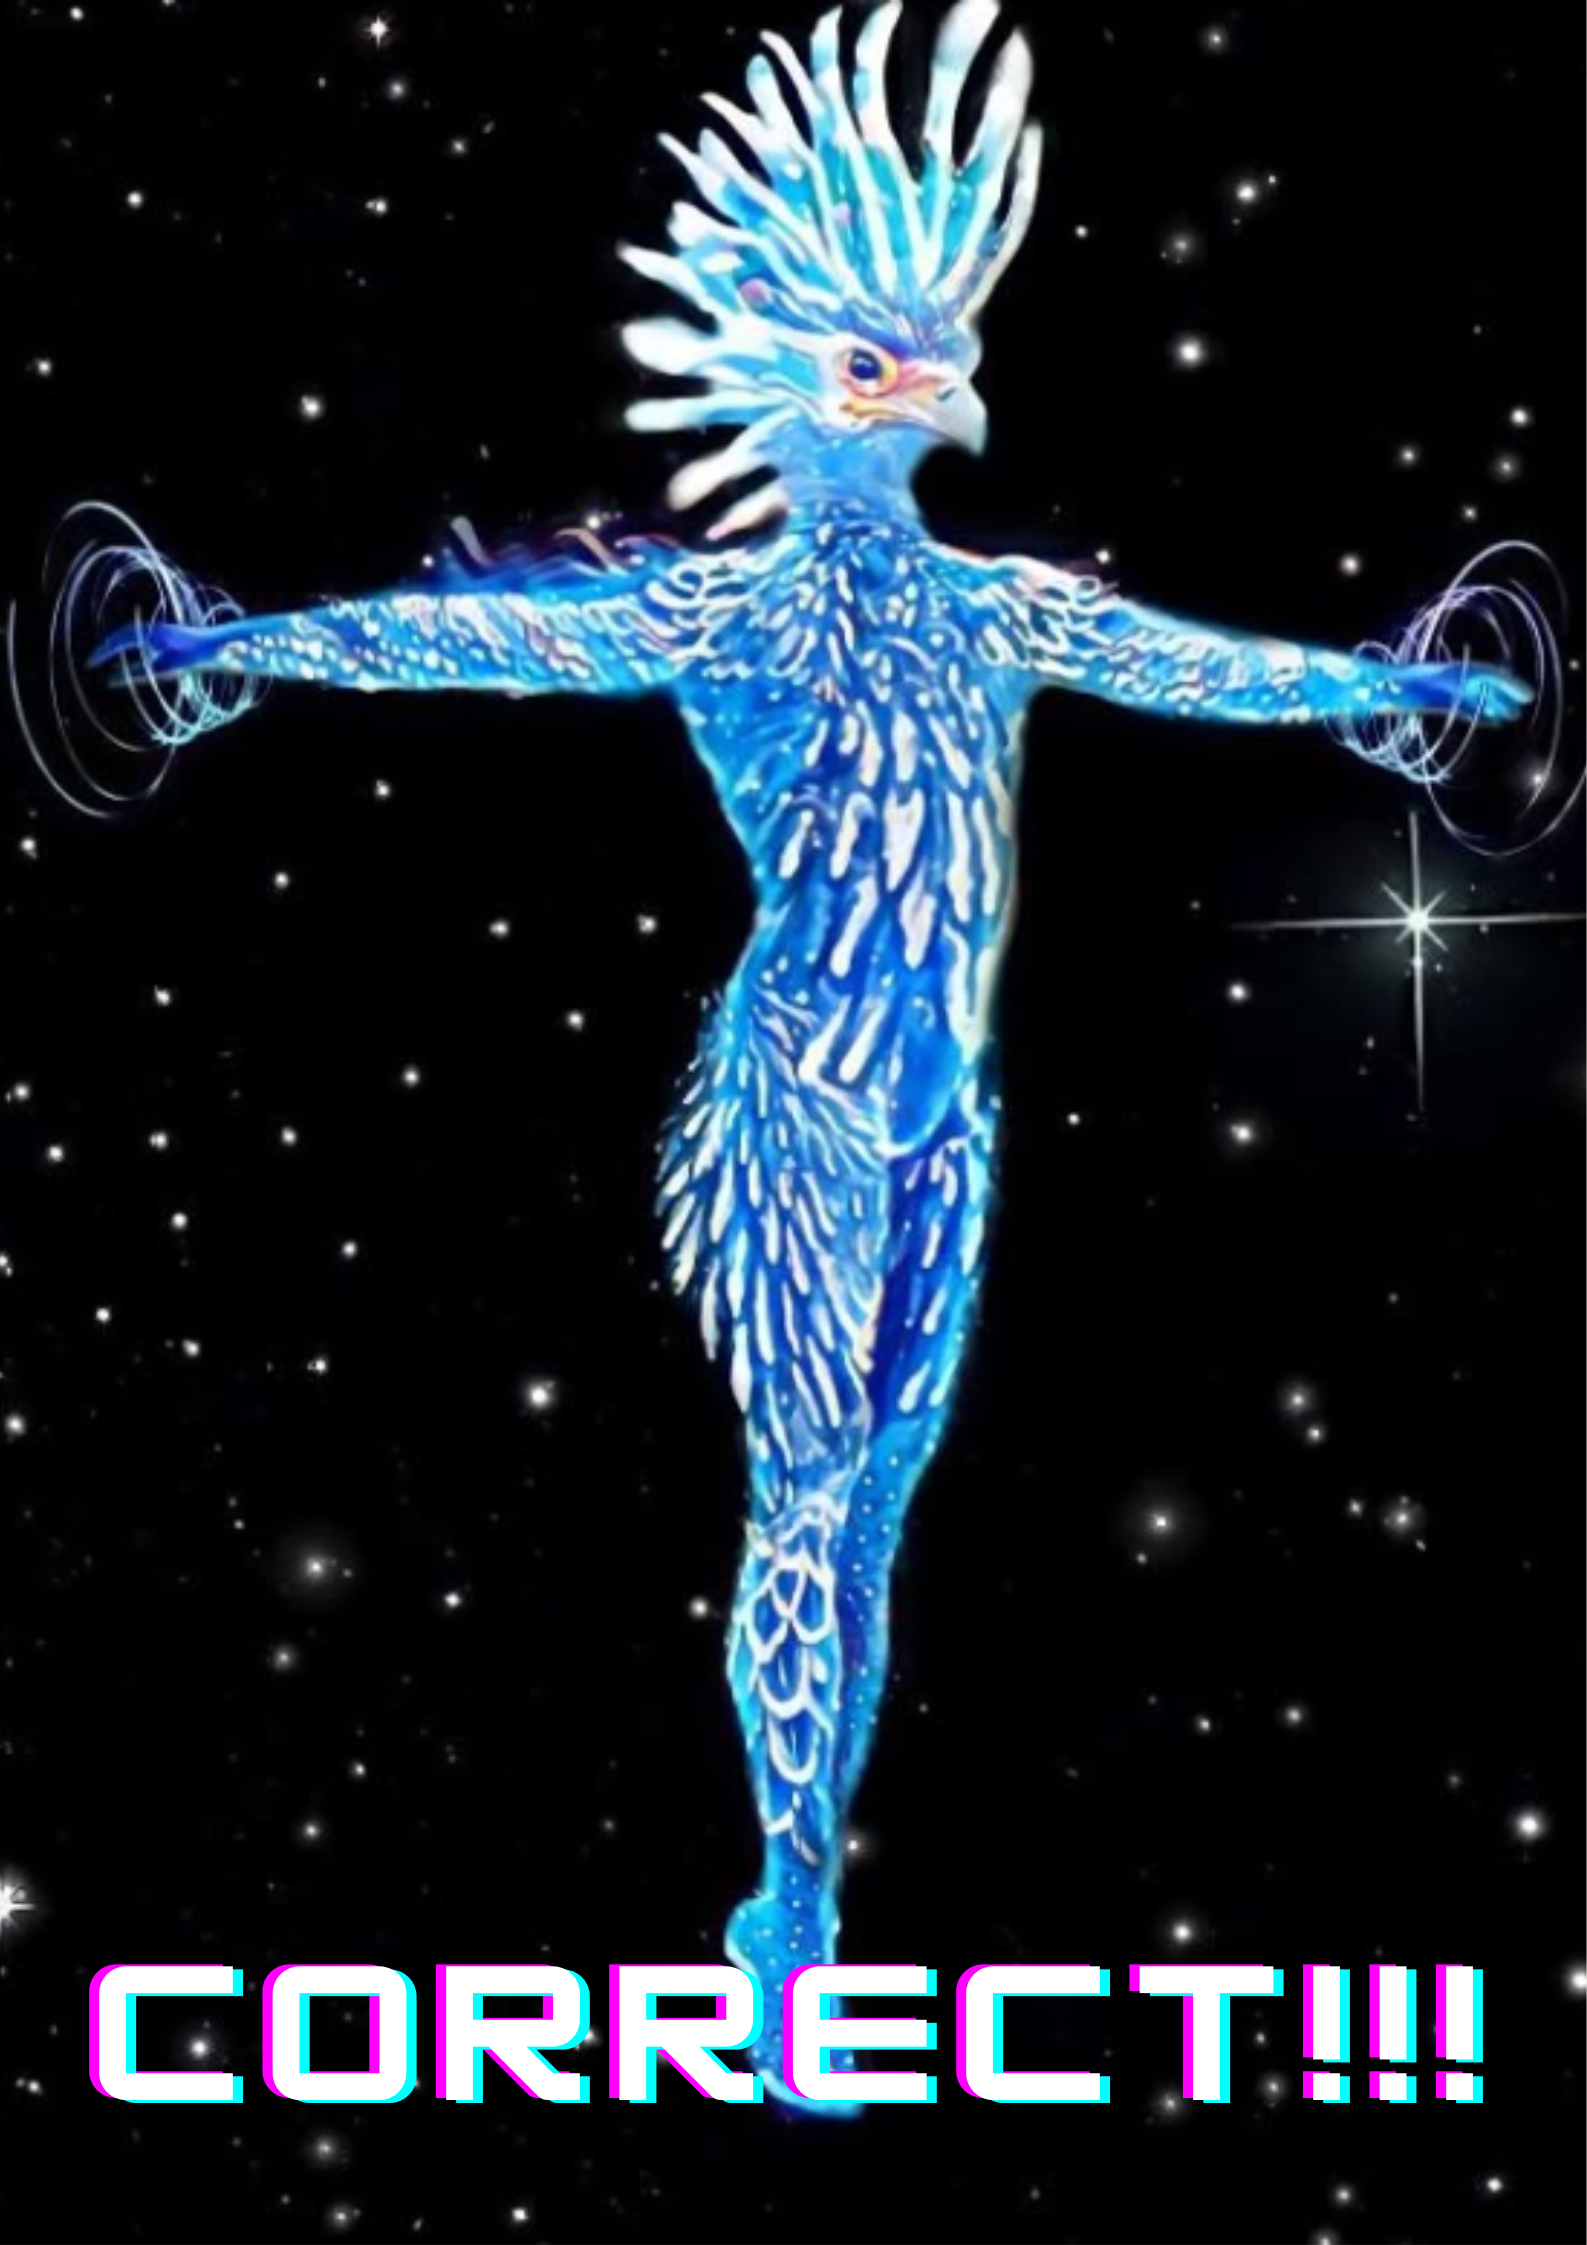
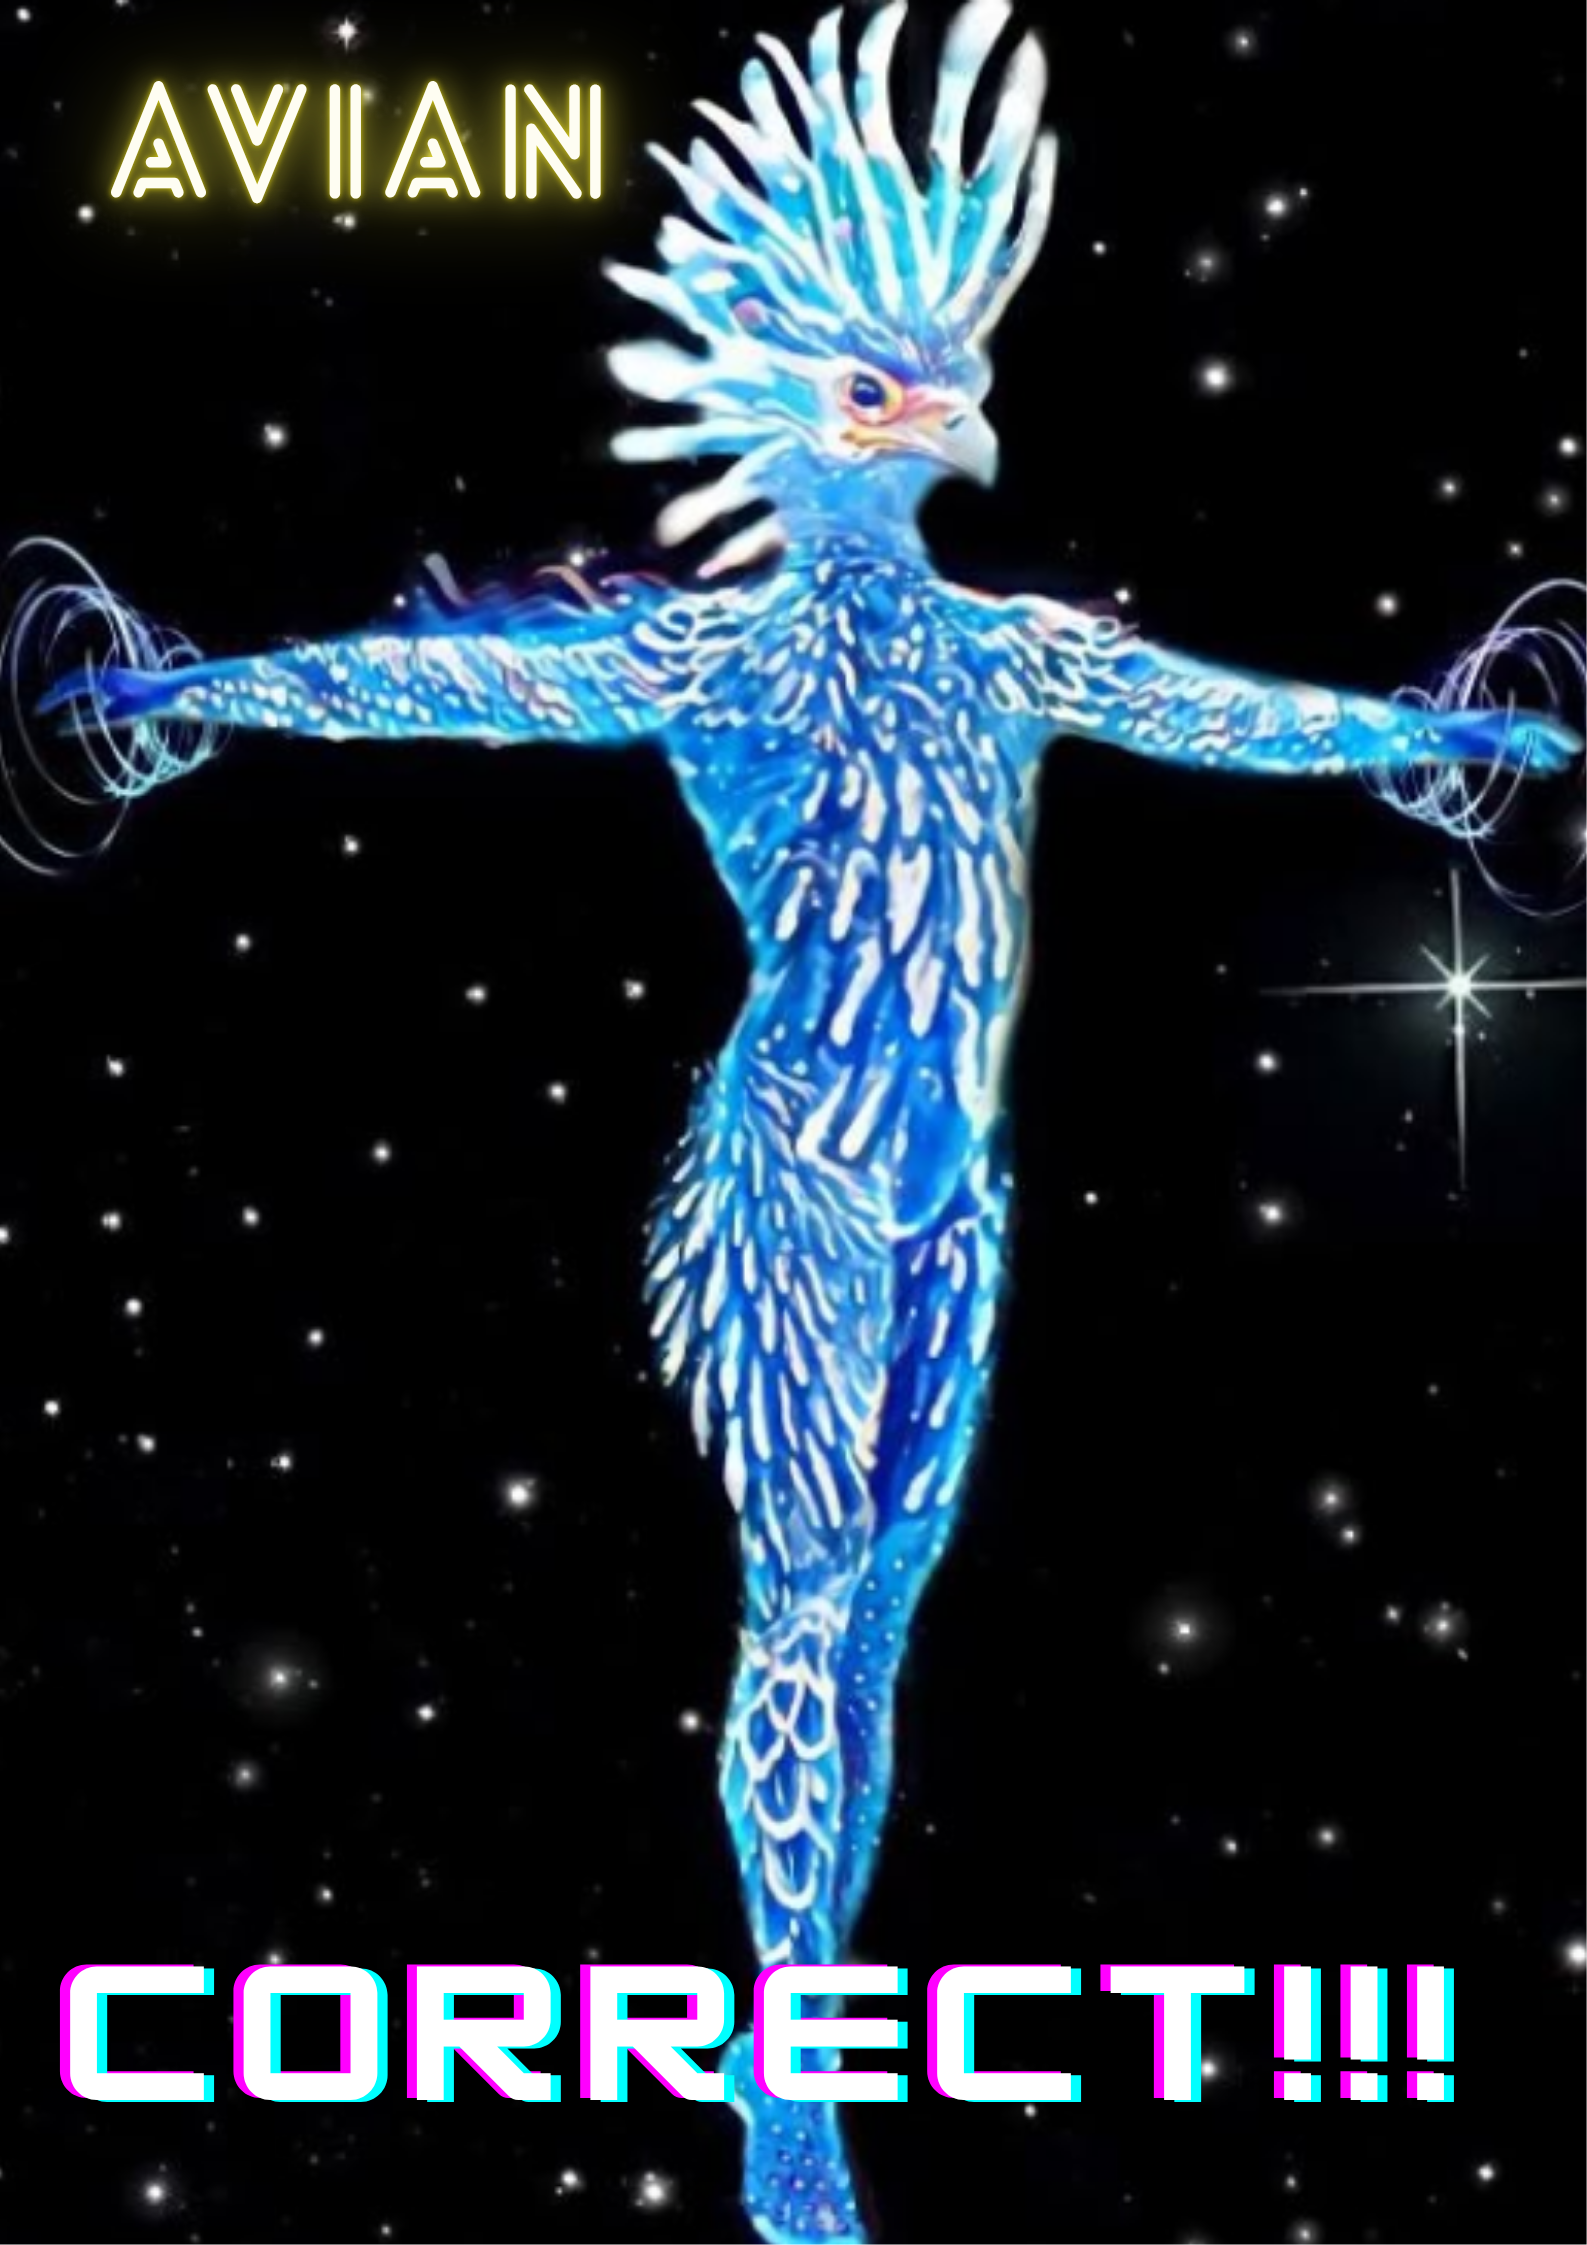
Function trial.

diff --git a/react-app/src/components/TwoGrids.tsx b/react-app/src/components/TwoGrids.tsx
@@ -1,9 +1,45 @@
 import '../css/TwoGrids.css'
 import guessWhosThat from '../assets/Guess the man.png'
-
+import { useState } from 'react';
 
 
 const TwoGrids = () => {
+  
+  const [alienRacesAppeared,setAlienRacesAppeared] = useState(new Set())
+  
+  const alienName = () =>{
+
+
+    let alienRaces: string[] = ["Avian","Grey Alien","Brainy Martian","Reptilian","Xenomorph"]
+    const random =  Math.floor(Math.random() * alienRaces.length)
+    let alien: string = alienRaces[random]
+
+
+    if (alienRacesAppeared.size === 5){
+      console.log(alienRacesAppeared)
+      alienRacesAppeared.clear()
+    }
+    else if (alienRacesAppeared.has(alien)){
+
+      const aliensDuplicates = Array.from(alienRacesAppeared).concat(alienRaces);
+      const frequencyMap = new Map();
+
+      aliensDuplicates.forEach(alien => {
+          frequencyMap.set(alien, (frequencyMap.get(alien) || 0) + 1);
+      });
+
+      let missedAliens = aliensDuplicates.filter(alien => frequencyMap.get(alien) === 1);
+      let newAlien = missedAliens[random] 
+
+      console.log(newAlien)
+      alienRacesAppeared.add(newAlien)
+    }
+     
+    else{
+      alienRacesAppeared.add(alien)
+      console.log(alien)
+    };
+  }
 
   return (
     <div className='two-column-layout'>
@@ -20,11 +56,11 @@ const TwoGrids = () => {
 
             }}>Aliens Races</h2>
 
-              <p>Avians</p>
+              <p>Avian</p>
               <p>Brainy Martian</p>
               <p>Grey-Alien</p>
-              <p>Reptilians</p>
-              <p>Xenomorphs</p>
+              <p>Reptilian</p>
+              <p>Xenomorph</p>
           </ol>
         
         <div>
@@ -46,7 +82,7 @@ const TwoGrids = () => {
                 marginLeft:85,
               }}>
               <input type="text" placeholder="Guess the alien race"/>
-              <button> click </button>
+              <button onClick={alienName}> click </button>
             </div>
         </div>
 
